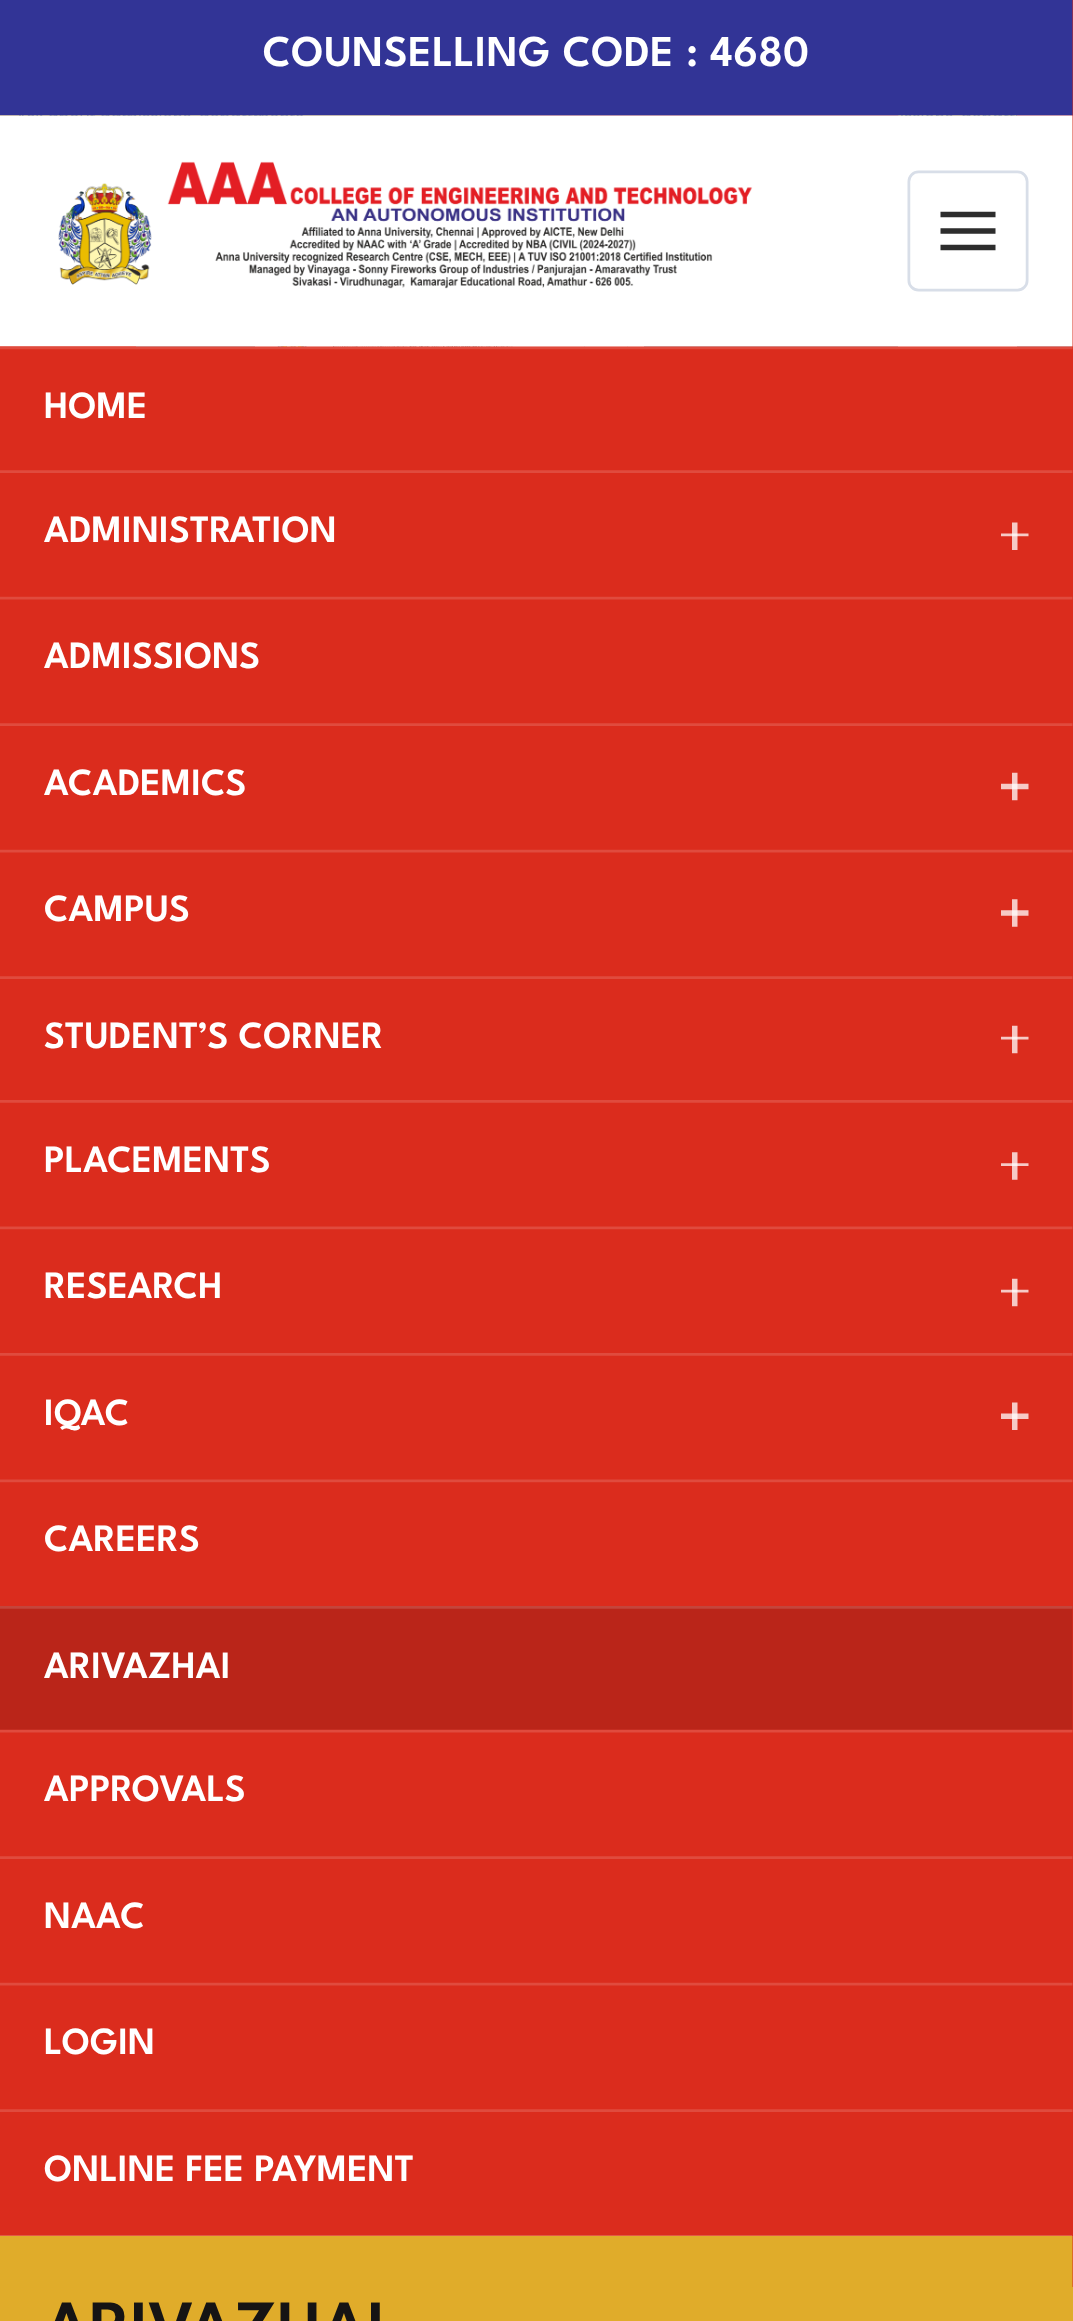
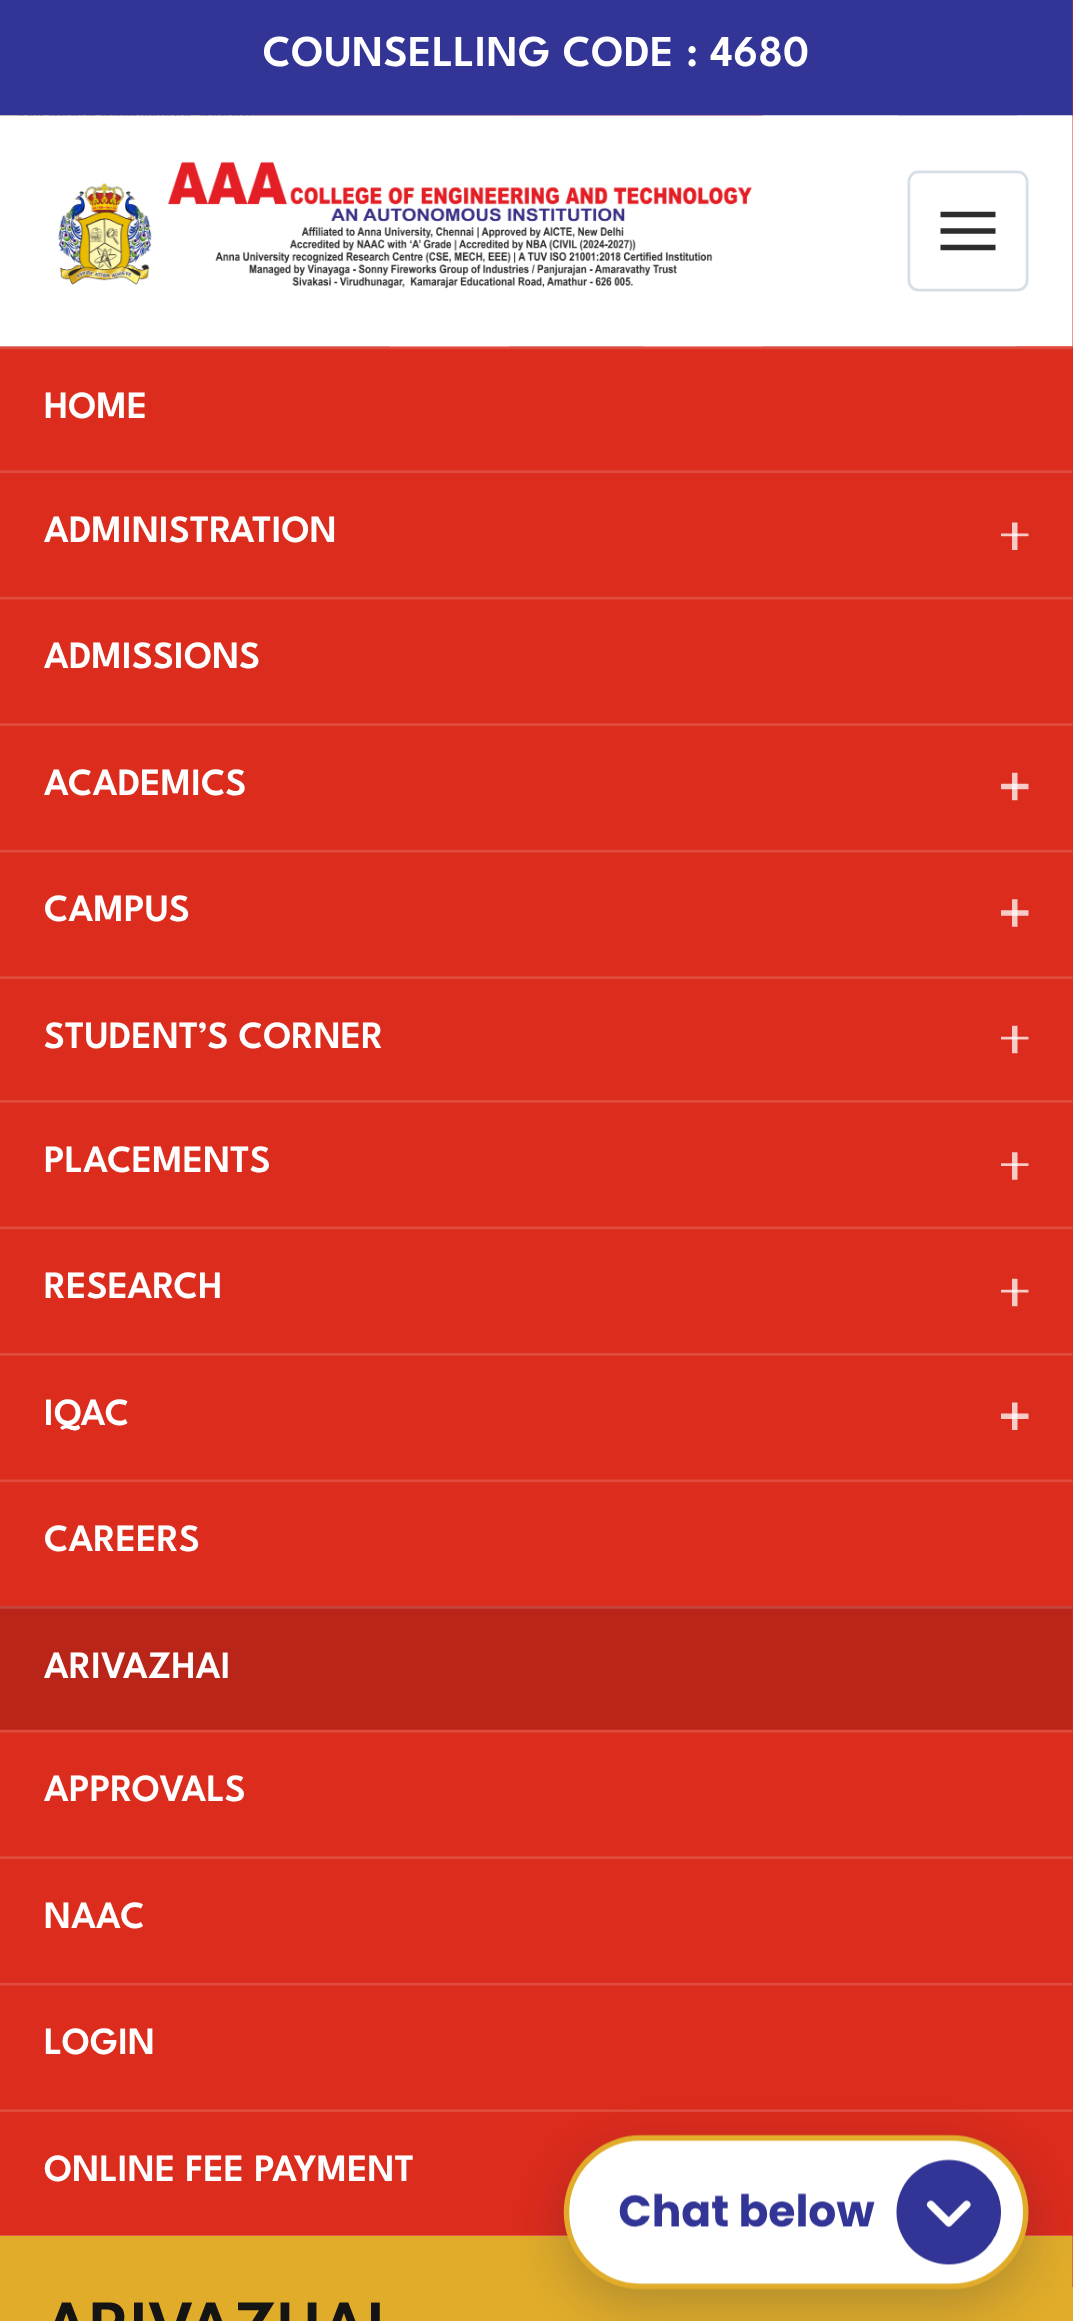
Add a "Chat below" down arrow that takes visitors to the chat
A round down-arrow at the bottom-right shows while the chat's question box is
below the screen; clicking it scrolls to the chat, greets and focuses the
question box. It hides once the chat is in view (on phones the question box
already sticks to the bottom of the screen).

Claude-Session: https://claude.ai/code/session_01NVahJL1p12jphadNDtFLf6

Changed region(s): [[0.5228, 0.8996, 0.9534, 0.9927]]

diff --git a/frontend/src/styles/global.css b/frontend/src/styles/global.css
@@ -1325,6 +1325,73 @@ img {
   font-size: 0.85rem;
 }
 
+/* down arrow to the chat, while its question box is below the screen */
+.scroll-to-chat {
+  position: fixed;
+  right: 24px;
+  bottom: 24px;
+  z-index: 1500;
+  display: flex;
+  align-items: center;
+  gap: 8px;
+  min-height: 56px;
+  padding: 0 8px 0 18px;
+  border: 2px solid var(--brand-accent, #e0ac2a);
+  border-radius: 999px;
+  background: #ffffff;
+  color: var(--brand-secondary, #323496);
+  font: inherit;
+  font-weight: 700;
+  box-shadow: 0 6px 18px rgba(13, 27, 61, 0.22);
+  cursor: pointer;
+  animation: scrollHint 1.8s ease-in-out infinite;
+}
+
+.scroll-to-chat svg {
+  display: block;
+  width: 38px;
+  height: 38px;
+  padding: 6px;
+  border-radius: 50%;
+  background: var(--brand-secondary, #323496);
+  color: #ffffff;
+}
+
+.scroll-to-chat:hover,
+.scroll-to-chat:focus-visible {
+  background: #fffaf0;
+  animation-play-state: paused;
+}
+
+.scroll-to-chat:focus-visible {
+  outline: 3px solid var(--brand-secondary, #323496);
+  outline-offset: 3px;
+}
+
+@keyframes scrollHint {
+  0%,
+  60%,
+  100% {
+    transform: translateY(0);
+  }
+  30% {
+    transform: translateY(6px);
+  }
+}
+
+@media (max-width: 760px) {
+  .scroll-to-chat {
+    right: 16px;
+    bottom: 16px;
+  }
+}
+
+@media (prefers-reduced-motion: reduce) {
+  .scroll-to-chat {
+    animation: none;
+  }
+}
+
 /* ------------------------------------------------------------------ robot moments */
 /* Arivazhai pops up centred over a blurred screen, then floats away (Moments.dc.html timing:
    0.35 s in, about 2.2 s hold, 0.4 s out). It never blocks the page: clicks and typing go through. */

diff --git a/frontend/src/__tests__/features.test.tsx b/frontend/src/__tests__/features.test.tsx
@@ -99,3 +99,32 @@ describe("start chat button at the top", () => {
     expect(document.querySelector(".mov")?.getAttribute("data-moment")).toBe("greet");
   });
 });
+
+describe("down arrow to the chat", () => {
+  it("shows while the chat is below the screen, takes you there, and hides once it is in view", async () => {
+    let callback!: (entries: Partial<IntersectionObserverEntry>[]) => void;
+    vi.stubGlobal(
+      "IntersectionObserver",
+      class {
+        constructor(cb: typeof callback) {
+          callback = cb;
+        }
+        observe() {}
+        disconnect() {}
+      },
+    );
+    vi.stubGlobal("fetch", vi.fn().mockReturnValue(new Promise(() => {})));
+    Element.prototype.scrollIntoView = vi.fn();
+    const user = userEvent.setup();
+    render(<App />);
+    const arrow = screen.getByRole("button", { name: "Go to the chat below" });
+    await user.click(arrow);
+    expect(box()).toHaveFocus();
+    act(() => callback([{ isIntersecting: true, boundingClientRect: { top: 400 } as DOMRectReadOnly }]));
+    expect(screen.queryByRole("button", { name: "Go to the chat below" })).not.toBeInTheDocument();
+    act(() => callback([{ isIntersecting: false, boundingClientRect: { top: -300 } as DOMRectReadOnly }]));
+    expect(screen.queryByRole("button", { name: "Go to the chat below" })).not.toBeInTheDocument(); // scrolled past
+    act(() => callback([{ isIntersecting: false, boundingClientRect: { top: 1200 } as DOMRectReadOnly }]));
+    expect(screen.getByRole("button", { name: "Go to the chat below" })).toBeInTheDocument();
+  });
+});

diff --git a/frontend/src/components/ScrollToChat.tsx b/frontend/src/components/ScrollToChat.tsx
@@ -1,0 +1,33 @@
+import { useEffect, useState } from "react";
+import { startChat } from "./ChatWindow";
+
+/**
+ * Round down-arrow at the bottom-right while the chat's question box is still below the screen:
+ * it shows people the chat is further down and takes them there.
+ */
+export function ScrollToChat() {
+  const [below, setBelow] = useState(true);
+
+  useEffect(() => {
+    const target = document.querySelector(".chat__footer");
+    if (!target || typeof IntersectionObserver === "undefined") return;
+    const observer = new IntersectionObserver(([entry]) => {
+      // hidden when the question box is on screen, or already scrolled past (above the screen)
+      setBelow(!entry.isIntersecting && entry.boundingClientRect.top > 0);
+    });
+    observer.observe(target);
+    return () => observer.disconnect();
+  }, []);
+
+  if (!below) return null;
+  return (
+    <button type="button" className="scroll-to-chat" onClick={startChat} aria-label="Go to the chat below" title="The chat is below">
+      <span className="scroll-to-chat__label" aria-hidden="true">
+        Chat below
+      </span>
+      <svg viewBox="0 0 24 24" width="26" height="26" aria-hidden="true" focusable="false">
+        <path fill="none" stroke="currentColor" strokeWidth="2.6" strokeLinecap="round" strokeLinejoin="round" d="M6 9.5l6 6 6-6" />
+      </svg>
+    </button>
+  );
+}

diff --git a/frontend/e2e/assistant.spec.ts b/frontend/e2e/assistant.spec.ts
@@ -152,3 +152,21 @@ test("start chat button at the top, and the page does not grow with the conversa
   }
   await expect(page.getByRole("heading", { name: "You can also ask" })).toHaveCount(1); // under the latest answer only
 });
+
+test("down arrow shows the chat is below and takes you there", async ({ page }, info) => {
+  await page.goto("/");
+  await momentGone(page);
+  const arrow = page.getByRole("button", { name: "Go to the chat below" });
+  if (info.project.name === "mobile") {
+    // on phones the question box sticks to the bottom of the screen, so it is already in sight
+    await expect(page.getByLabel("Ask a question about AAACET")).toBeInViewport();
+    await expect(arrow).toBeHidden();
+    return;
+  }
+  await expect(arrow).toBeVisible();
+  await page.screenshot({ path: join(SHOTS, `${info.project.name}-chat-below.png`) });
+  await arrow.click();
+  await expect(page.getByLabel("Ask a question about AAACET")).toBeFocused();
+  await expect(page.getByLabel("Ask a question about AAACET")).toBeInViewport();
+  await expect(arrow).toBeHidden();
+});

diff --git a/frontend/src/App.tsx b/frontend/src/App.tsx
@@ -2,6 +2,7 @@ import { brand, safeHref } from "./brand";
 import { ChatWindow, startChat } from "./components/ChatWindow";
 import { Footer } from "./components/Footer";
 import { Header } from "./components/Header";
+import { ScrollToChat } from "./components/ScrollToChat";
 import { RobotMoments } from "./robot/RobotMoments";
 
 /** `?embed=1` renders only the chat panel, for embedding in an iframe on the official site. */
@@ -51,6 +52,7 @@ export default function App() {
         <ChatWindow />
       </main>
       <Footer />
+      <ScrollToChat />
       <RobotMoments />
     </>
   );

diff --git a/README.md b/README.md
@@ -138,6 +138,9 @@ flowchart LR
 * **Next questions:** every answer comes with three full questions to ask next (`follow_ups`): about the same
   department, then related topics (fees → scholarships, hostel → transport…), never one already asked. They are shown
   under the latest answer.
+* **Finding the chat:** a "Start chat with Arivazhai" button in the page banner, and a bouncing "Chat below" down
+  arrow at the bottom-right while the question box is still below the screen. Both scroll to the chat, greet and put
+  the cursor in the question box; the arrow hides once the chat is in view.
 * **Contact details:** when the website does not cover a question, and for questions about contacting the college,
   the answer ends with the office's phone numbers (tap to call) and email, from `brand.json`.
 * If no key is configured, or the LLM API fails, the answer falls back to quoting the website (extractive mode), and
